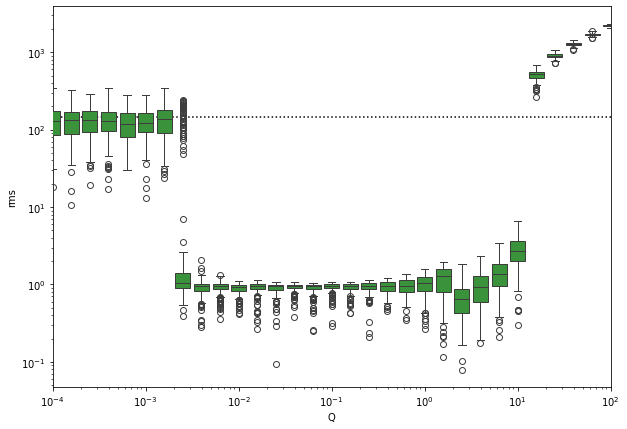
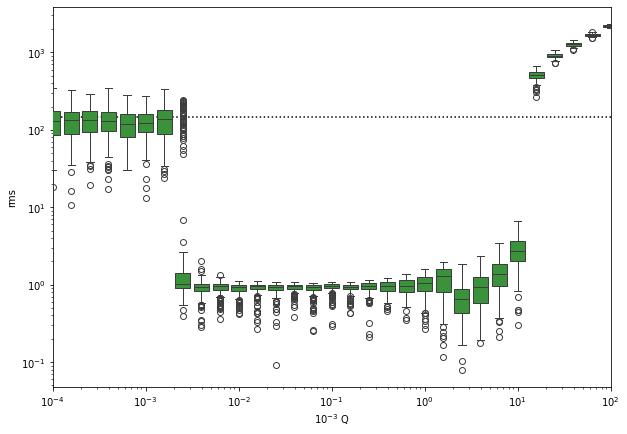
added dp trap

diff --git a/README.md b/README.md
@@ -264,8 +264,16 @@ $\langle z\rangle\to D/\gamma$.
 
 #### Diffusiophoretic trap
 
-The plot shows the mean square displacement for particles in the drift
-field given above, as a function of the volumetric injection rate $Q$. Other parameters are $k=500$, $\Gamma=150$, 
+The plot shows box-whisker plots of the mean square displacement for
+particles in the drift field given above, as a function of the
+volumetric injection rate $Q$. Other parameters are $P/Q\eta =
+0.0955$, $k\lambda=2490$, and $\Gamma=150$.  The drift field was cut
+off for $r < 1$.  The elapsed time was $t=3600$.  The diffusion
+coefficient was $D=1$.  dotted line is the free diffusion limit where
+$\sqrt{6Dt}\simeq 147$.  Units in this problem are microns and
+seconds.
+
+![Diffusiophoretic trap rms vs Q](https://github.com/patrickbwarren/python3-adaptive-BD/blob/main/figures/dptrap.png)
 
 
 ### Copying
